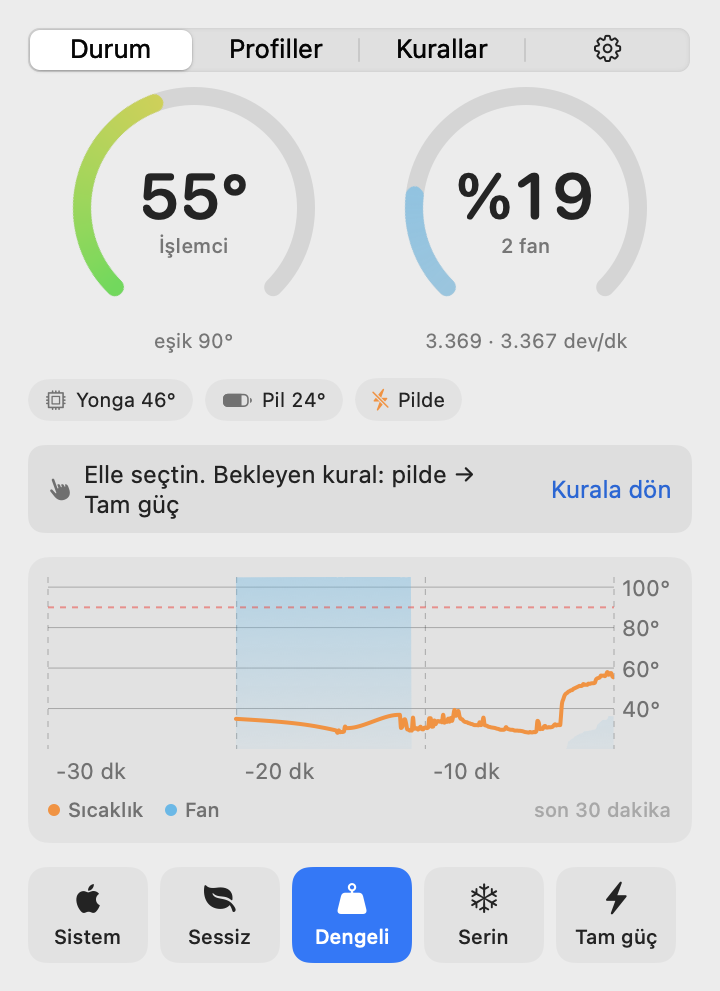
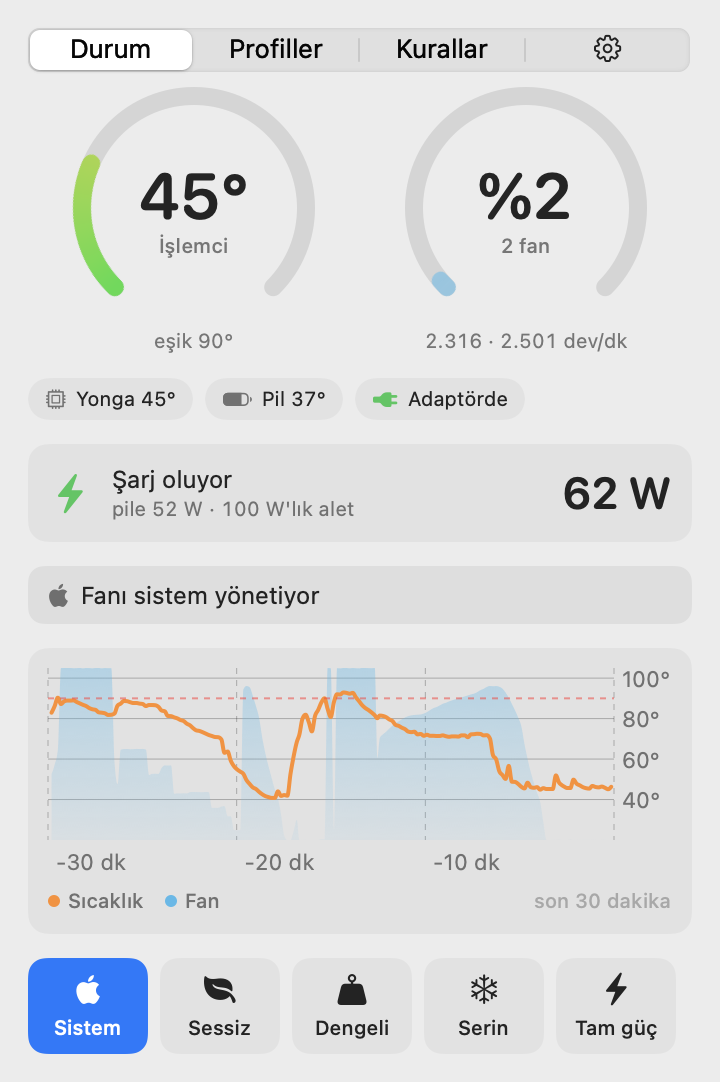
Belgeler: şarj gücü özelliği, yeni panel görüntüsü

diff --git a/README.tr.md b/README.tr.md
@@ -18,7 +18,7 @@
 </p>
 
 <p align="center">
-  <img src="docs/panel.png" alt="Pervane menü çubuğu paneli: sıcaklık ve fan halkaları, 30 dakikalık sıcaklık ve fan grafiği, profil seçici" width="340">
+  <img src="docs/panel.png" alt="Pervane menü çubuğu paneli: sıcaklık ve fan halkaları, şarj gücü, 30 dakikalık sıcaklık ve fan grafiği, profil seçici" width="340">
   &nbsp;&nbsp;
   <img src="docs/egri-duzenleyici.png" alt="Koyu temada Pervane profilleri ve eğri düzenleyicisi: sürüklenebilir noktalar, eğri üzerinde o anki sıcaklık" width="340">
 </p>
@@ -39,8 +39,9 @@ macOS fanı geç devreye sokar; Mac önce ısınır, sonra soğur. Pervane fanı
 | 🍃 **Soğukta sisteme bırakma** | Eğri %0 verdiğinde fan en düşük devirde tutulmaz, macOS'e bırakılır (ayarlardan kapatılır). |
 | 🚨 **Acil durum freni** | Eşik aşılınca profil ne olursa olsun tam güç; 8 °C soğuyana kadar bırakmaz. |
 | 🧈 **Yumuşak geçiş** | Tur başına en çok 600 devir; histerezis bandı sayesinde fan inip çıkıp durmaz. |
+| ⚡ **Şarj gücü** | Şarj aleti takılıyken: aletten giren watt, pile giden watt ve aletin gücü. Alet yetmeyip pilden de çekiliyorsa söyler. |
 | 📊 **30 dakikalık geçmiş** | Sıcaklık çizgisi ile fan yüzdesi aynı grafikte; üzerine gelince o anın değerleri. |
-| 🪶 **Sade menü çubuğu** | Simge, sıcaklık, yüzde ya da devir: hangisini görmek istediğini sen seç. Oturum açılınca kendiliğinden başlar. |
+| 🪶 **Sade menü çubuğu** | Simge, sıcaklık, yüzde, devir ya da şarj gücü: hangisini görmek istediğini sen seç. Oturum açılınca kendiliğinden başlar. |
 | ⌨ **Komut satırı** | `pervane`, `pervane izle`, betikler için `pervane json`. |
 | 🛟 **Güvenli kapanış** | Servis dursa da çökse de fan sisteme geri verilir. |
 

diff --git a/README.md b/README.md
@@ -17,7 +17,7 @@
 </p>
 
 <p align="center">
-  <img src="docs/panel.png" alt="Pervane menu bar panel: temperature and fan gauges, 30-minute temperature and fan chart, profile picker" width="340">
+  <img src="docs/panel.png" alt="Pervane menu bar panel: temperature and fan gauges, charging power, 30-minute temperature and fan chart, profile picker" width="340">
   &nbsp;&nbsp;
   <img src="docs/egri-duzenleyici.png" alt="Pervane profiles and curve editor in dark mode: draggable points with the live temperature on the curve" width="340">
 </p>
@@ -38,8 +38,9 @@ macOS spins the fan up late: the Mac heats up first, then cools down. Pervane dr
 | 🍃 **Hands off when cool** | When the curve says 0 %, the fan isn't held at minimum RPM; it's handed back to macOS (can be turned off in settings). |
 | 🚨 **Emergency brake** | Above a threshold the fan goes to full power whatever the profile, and stays there until things cool down by 8 °C. |
 | 🧈 **Smooth ramps** | At most 600 RPM change per tick; a hysteresis band keeps the fan from hunting up and down. |
+| ⚡ **Charging power** | With the charger plugged in: watts coming in from the charger, watts going into the battery, and the charger's rating. Tells you when the charger can't keep up and the battery is draining too. |
 | 📊 **30-minute history** | Temperature line and fan percentage in one chart; hover for the values at that moment. |
-| 🪶 **Quiet menu bar** | Icon, temperature, percentage or RPM: you choose what to show. Starts at login. |
+| 🪶 **Quiet menu bar** | Icon, temperature, percentage, RPM or charging watts: you choose what to show. Starts at login. |
 | ⌨ **Command line** | `pervane`, `pervane izle` (watch), `pervane json` for scripts. |
 | 🛟 **Safe shutdown** | Whether the service stops or crashes, the fan is handed back to macOS. |
 
